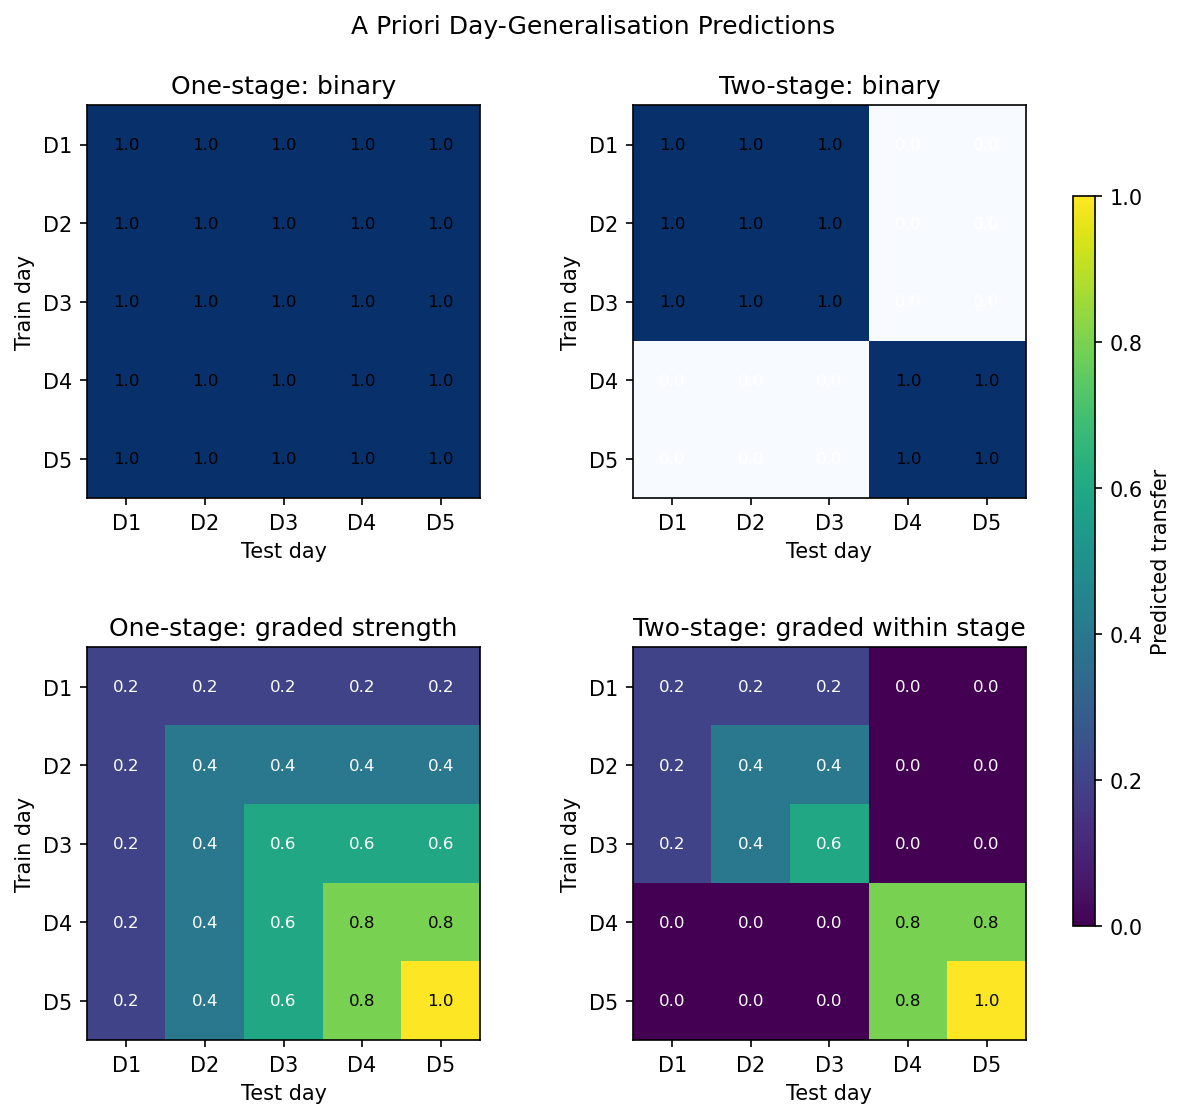
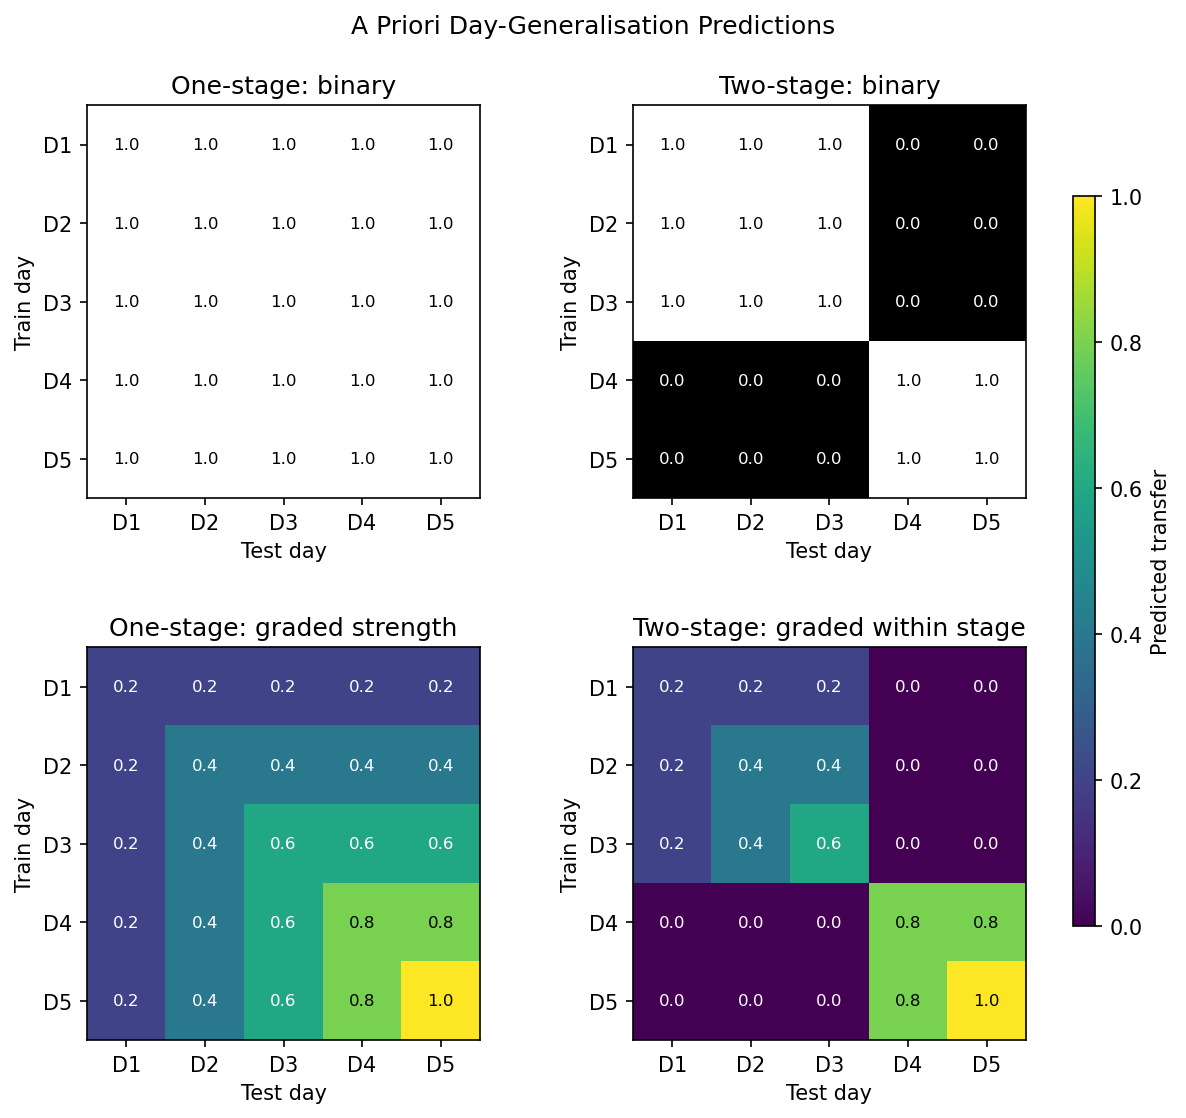
connectivity predictions

Changed region(s): [[0.5304, 0.0912, 0.8735, 0.4562], [0.0624, 0.0912, 0.4056, 0.4562]]

diff --git a/code/connect_prediction_figure.py b/code/connect_prediction_figure.py
@@ -1,0 +1,92 @@
+#!/usr/bin/env python3
+"""Plot schematic one-stage and two-stage connectivity predictions."""
+
+import os
+from pathlib import Path
+
+os.environ.setdefault("MPLCONFIGDIR", "/tmp/mplconfig")
+os.environ.setdefault("XDG_CACHE_HOME", "/tmp/xdg-cache")
+
+import matplotlib
+
+matplotlib.use("Agg")
+import matplotlib.pyplot as plt
+import numpy as np
+
+PROJECT_DIR = Path(__file__).resolve().parent.parent
+FIGURES_DIR = PROJECT_DIR / "figures"
+DAYS = [1, 2, 3, 4, 5]
+
+
+def gaussian(t, mu, sigma):
+    return np.exp(-0.5 * ((t - mu) / sigma) ** 2)
+
+
+def save_fig_connect_prediction(figures_dir=FIGURES_DIR):
+    figures_dir = Path(figures_dir)
+    figures_dir.mkdir(parents=True, exist_ok=True)
+    fig_path = figures_dir / "connect_prediction_models.png"
+
+    t = np.linspace(0.0, 0.8, 300)
+    colors = plt.get_cmap("viridis")(np.linspace(0.15, 0.85, len(DAYS)))
+
+    fig, axes = plt.subplots(1, 2, figsize=(10.0, 3.8), sharex=True, sharey=True)
+
+    ax = axes[0]
+    for idx, day in enumerate(DAYS):
+        amp = 0.60 + 0.08 * float(day - 1)
+        y = amp * gaussian(t, 0.48, 0.10)
+        ax.plot(t, y, color=colors[idx], linewidth=1.8, label=f"D{day}")
+    ax.set_title("One-stage connectivity")
+    ax.set_xlabel("Time from stimulus onset (s)")
+    ax.set_ylabel("Predicted connectivity")
+    ax.axvspan(0.40, 0.60, color="0.90", zorder=0)
+    ax.grid(alpha=0.25)
+
+    ax = axes[1]
+    for idx, day in enumerate(DAYS):
+        late_amp = 1.00 - 0.18 * float(day - 1)
+        early_amp = 0.08 + 0.20 * float(day - 1)
+        late_y = late_amp * gaussian(t, 0.56, 0.09)
+        early_y = early_amp * gaussian(t, 0.34, 0.08)
+        ax.plot(t, late_y, color=colors[idx], linewidth=1.8, linestyle=":")
+        ax.plot(t, early_y, color=colors[idx], linewidth=1.8)
+    ax.set_title("Two-stage connectivity")
+    ax.set_xlabel("Time from stimulus onset (s)")
+    ax.axvspan(0.40, 0.60, color="0.90", zorder=0)
+    ax.grid(alpha=0.25)
+
+    handles = []
+    labels = []
+    for idx, day in enumerate(DAYS):
+        handle = plt.Line2D([0], [0], color=colors[idx], linewidth=1.8)
+        handles.append(handle)
+        labels.append(f"D{day}")
+    stage_handles = [
+        plt.Line2D([0], [0], color="0.25", linewidth=1.8),
+        plt.Line2D([0], [0], color="0.25", linewidth=1.8, linestyle=":"),
+    ]
+    stage_labels = ["earlier-onset pathway", "later-onset pathway"]
+    for handle in stage_handles:
+        handles.append(handle)
+    for label in stage_labels:
+        labels.append(label)
+
+    fig.legend(
+        handles,
+        labels,
+        loc="center right",
+        frameon=False,
+        fontsize=8,
+        bbox_to_anchor=(0.99, 0.50),
+    )
+    fig.suptitle("A Priori Connectivity Predictions")
+    fig.subplots_adjust(top=0.82, bottom=0.16, left=0.08, right=0.78, wspace=0.24)
+    fig.savefig(fig_path, dpi=150, bbox_inches="tight")
+    plt.close(fig)
+    print(f"[Connectivity prediction] Wrote {fig_path}")
+    return {"prediction_models": fig_path}
+
+
+if __name__ == "__main__":
+    save_fig_connect_prediction()

diff --git a/code/mvpa_stim_locked_cat_transfer_prediction_figure.py b/code/mvpa_stim_locked_cat_transfer_prediction_figure.py
@@ -109,7 +109,7 @@ def save_fig_mvpa_stim_locked_cat_transfer_prediction(figures_dir=FIGURES_DIR):
     ]
 
     fig, axes = plt.subplots(2, 2, figsize=(8.2, 7.6), squeeze=False)
-    binary_cmap = plt.get_cmap("Blues")
+    binary_cmap = plt.get_cmap("gray")
     graded_cmap = plt.get_cmap("viridis")
     ims = []
     for idx, mat in enumerate(matrices):
